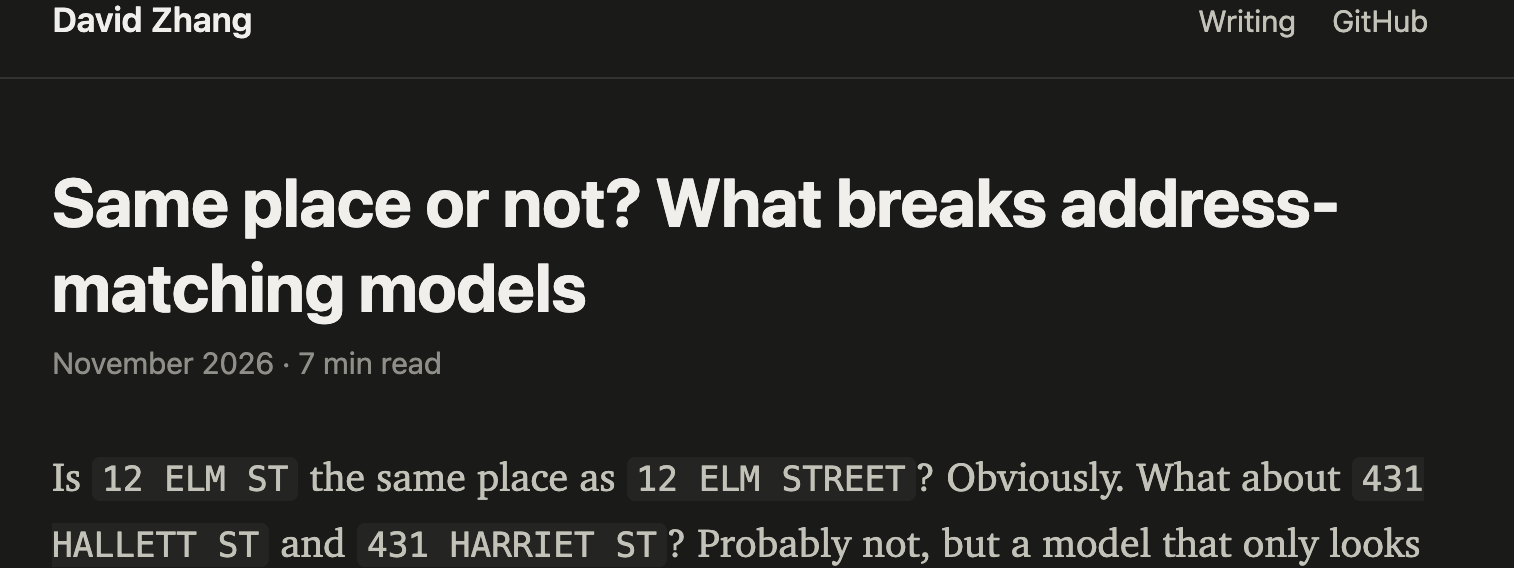
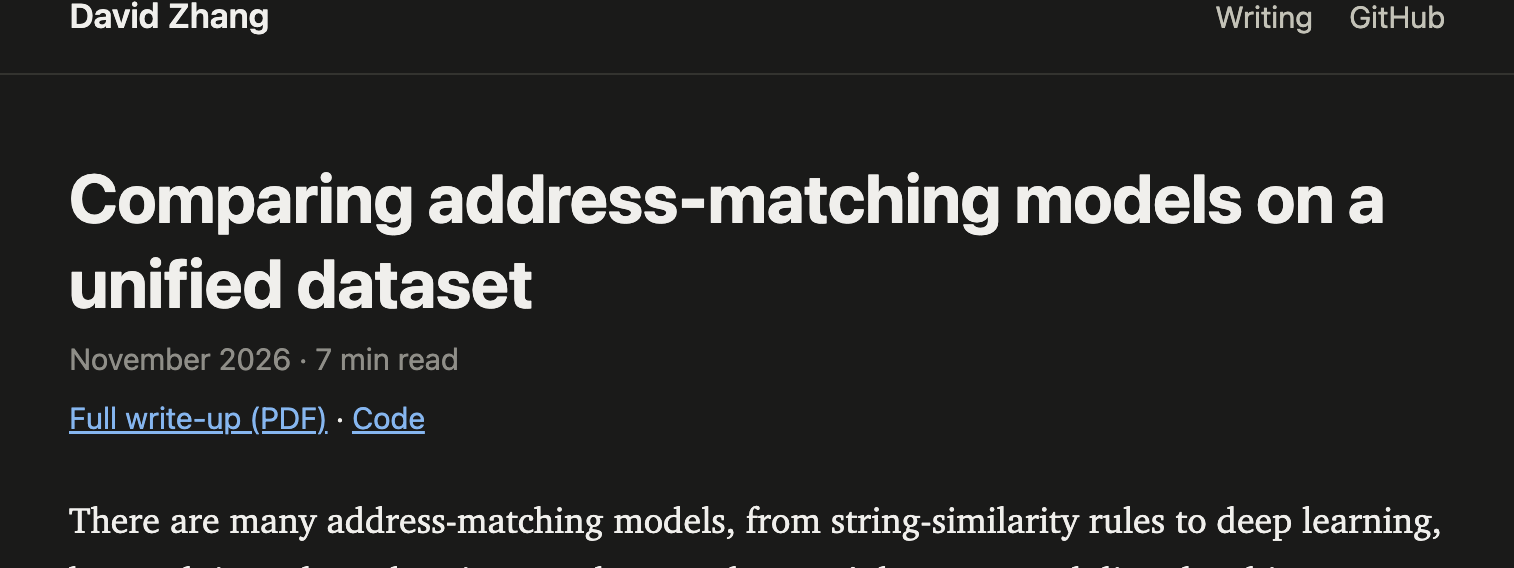
Address-matching card: v2 description and new header screenshot

diff --git a/lib/ml-projects-list.js b/lib/ml-projects-list.js
@@ -6,7 +6,7 @@ export const mlProjectsList = [
   {
     image: "/address-matching-post-header.png",
     title: "Address Matching by Pair Type",
-    desc: "Benchmark of tree models against a siamese BiLSTM, ESIM and DistilBERT on real Overture–Foursquare address pairs. The gap between them comes down to one thing: a missing house number",
+    desc: "Benchmark of tree models against a siamese BiLSTM, ESIM and DistilBERT on real Overture–Foursquare address pairs, scored by pair type. They differ most on matches with a missing house number: the trees find 94–96%, the neural models 63–76%",
     site: "https://dzhang3210.github.io/posts/address-matching/",
     siteLabel: "Read write-up",
     code: "https://github.com/DZhang3210/address-matching-by-pair-type",
